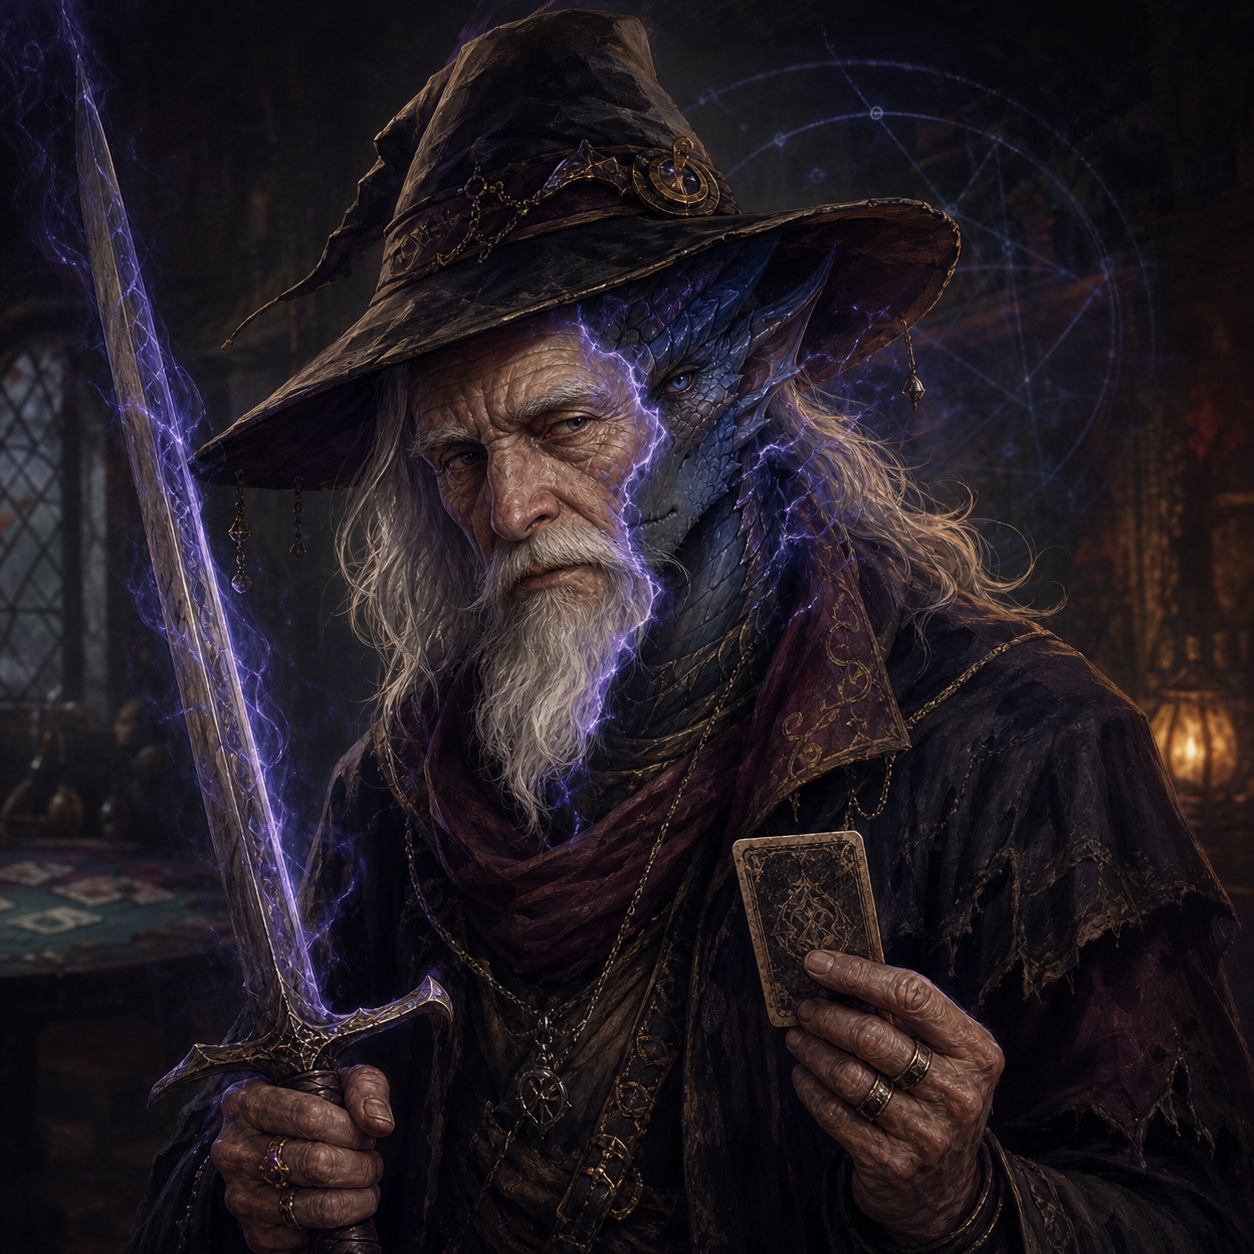
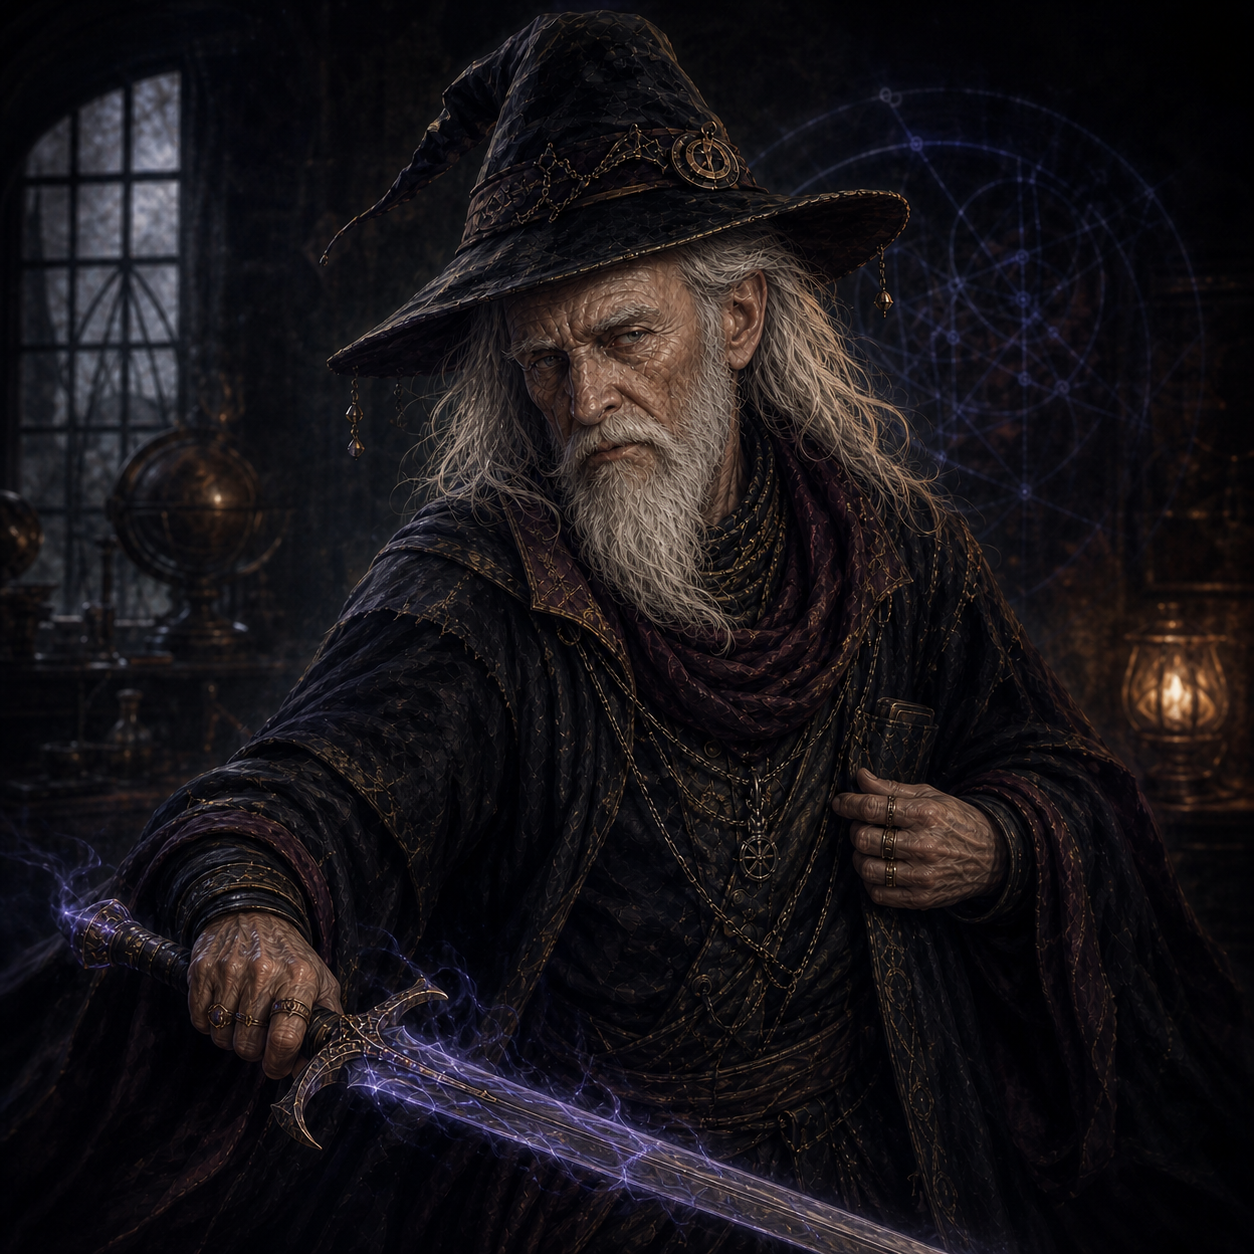
feat: redesign Gandalf human portrait pose

diff --git a/index.html b/index.html
@@ -37,8 +37,8 @@
         <section class="hero" id="overview" aria-labelledby="characterName">
           <div class="portrait-panel">
             <img
-              src="./assets/images/gandalf-bladesinger.png"
-              alt="以白发老法师示人的年轻人类剑咏者甘阿·道夫，手持父亲的旧剑与母亲的纸牌"
+              src="./assets/images/gandalf-bladesinger.png?v=20260823-human-bladesong-pose"
+              alt="以白发老法师示人的年轻人类剑咏者甘阿·道夫，手持父亲的旧剑，母亲的旧牌收在衣兜里"
             />
             <div class="portrait-vignette"></div>
             <div class="portrait-caption">

diff --git a/portal.js b/portal.js
@@ -300,7 +300,7 @@ function renderPortal() {
       </header>
       <section class="portal-character-panel" aria-labelledby="portalCharacterTitle">
         <div class="portal-portrait">
-          <img src="./assets/images/gandalf-bladesinger.png" alt="以老法师外貌示人的人类剑咏者甘阿·道夫" />
+          <img src="./assets/images/gandalf-bladesinger.png?v=20260823-human-bladesong-pose" alt="以老法师外貌示人的人类剑咏者甘阿·道夫，旧牌收在衣兜里" />
         </div>
         <div class="portal-character-copy">
           <p>AVAILABLE CHARACTER</p>

diff --git a/session/session.md b/session/session.md
@@ -50,6 +50,7 @@
 | 2026-08-23 | 补齐专长显示、设置与升级分支 | `index.html`、`manager.js`、`styles.css` | 三级角色默认显示暂无专长；支持维护专长来源、先决条件、说明与获得等级；ASI 等级可选择属性提升或专长 |
 | 2026-08-23 | 增加 2014 版专长预设目录 | `data/feat-catalog.js`、`manager.js`、`styles.css` | 内置 42 项专长摘要；支持搜索分类、一键加入、防重复、后续配置，以及升级界面预设选择 |
 | 2026-08-23 | 将角色种族统一为人类 | `index.html`、`app.js`、`portal.js`、`README.md` | 移除旧种族血脉、语言及相关文案；改为 2014 标准人类特质与“通用语 + 任选 3 种标准语言”，保留已确认最终属性 |
+| 2026-08-23 | 更新人类角色肖像 | `assets/images/gandalf-bladesinger.png`、`index.html`、`portal.js` | 肖像移除全部龙族外貌；旧牌仅收在衣兜；姿势重构为三分之二侧身与长剑低位斜跨，并更新图片缓存版本 |
 
 ## 下一步
 

diff --git a/session/requirements/dnd-character-sheet.md b/session/requirements/dnd-character-sheet.md
@@ -66,3 +66,4 @@
 | 2026-08-23 | 增加专长显示与设置模块；三级角色默认无专长，升级至属性值提升等级时可在属性提升和 DM 许可的专长之间二选一。 |
 | 2026-08-23 | 将专长设置扩展为 42 项 2014 版预设目录，支持搜索、分类、一键加入、角色配置与升级时直接选择。 |
 | 2026-08-23 | 将甘阿·道夫的种族统一校正为 2014 版标准人类；保留已确认最终属性，并同步人类特质、语言、入口、人物故事与页面标题。 |
+| 2026-08-23 | 将角色肖像同步为完整人类外貌；移除鳞片、龙眼等旧种族视觉元素，母亲的旧牌收在衣兜，并采用三分之二侧身、长剑低位斜跨身前的剑咏姿势。 |
